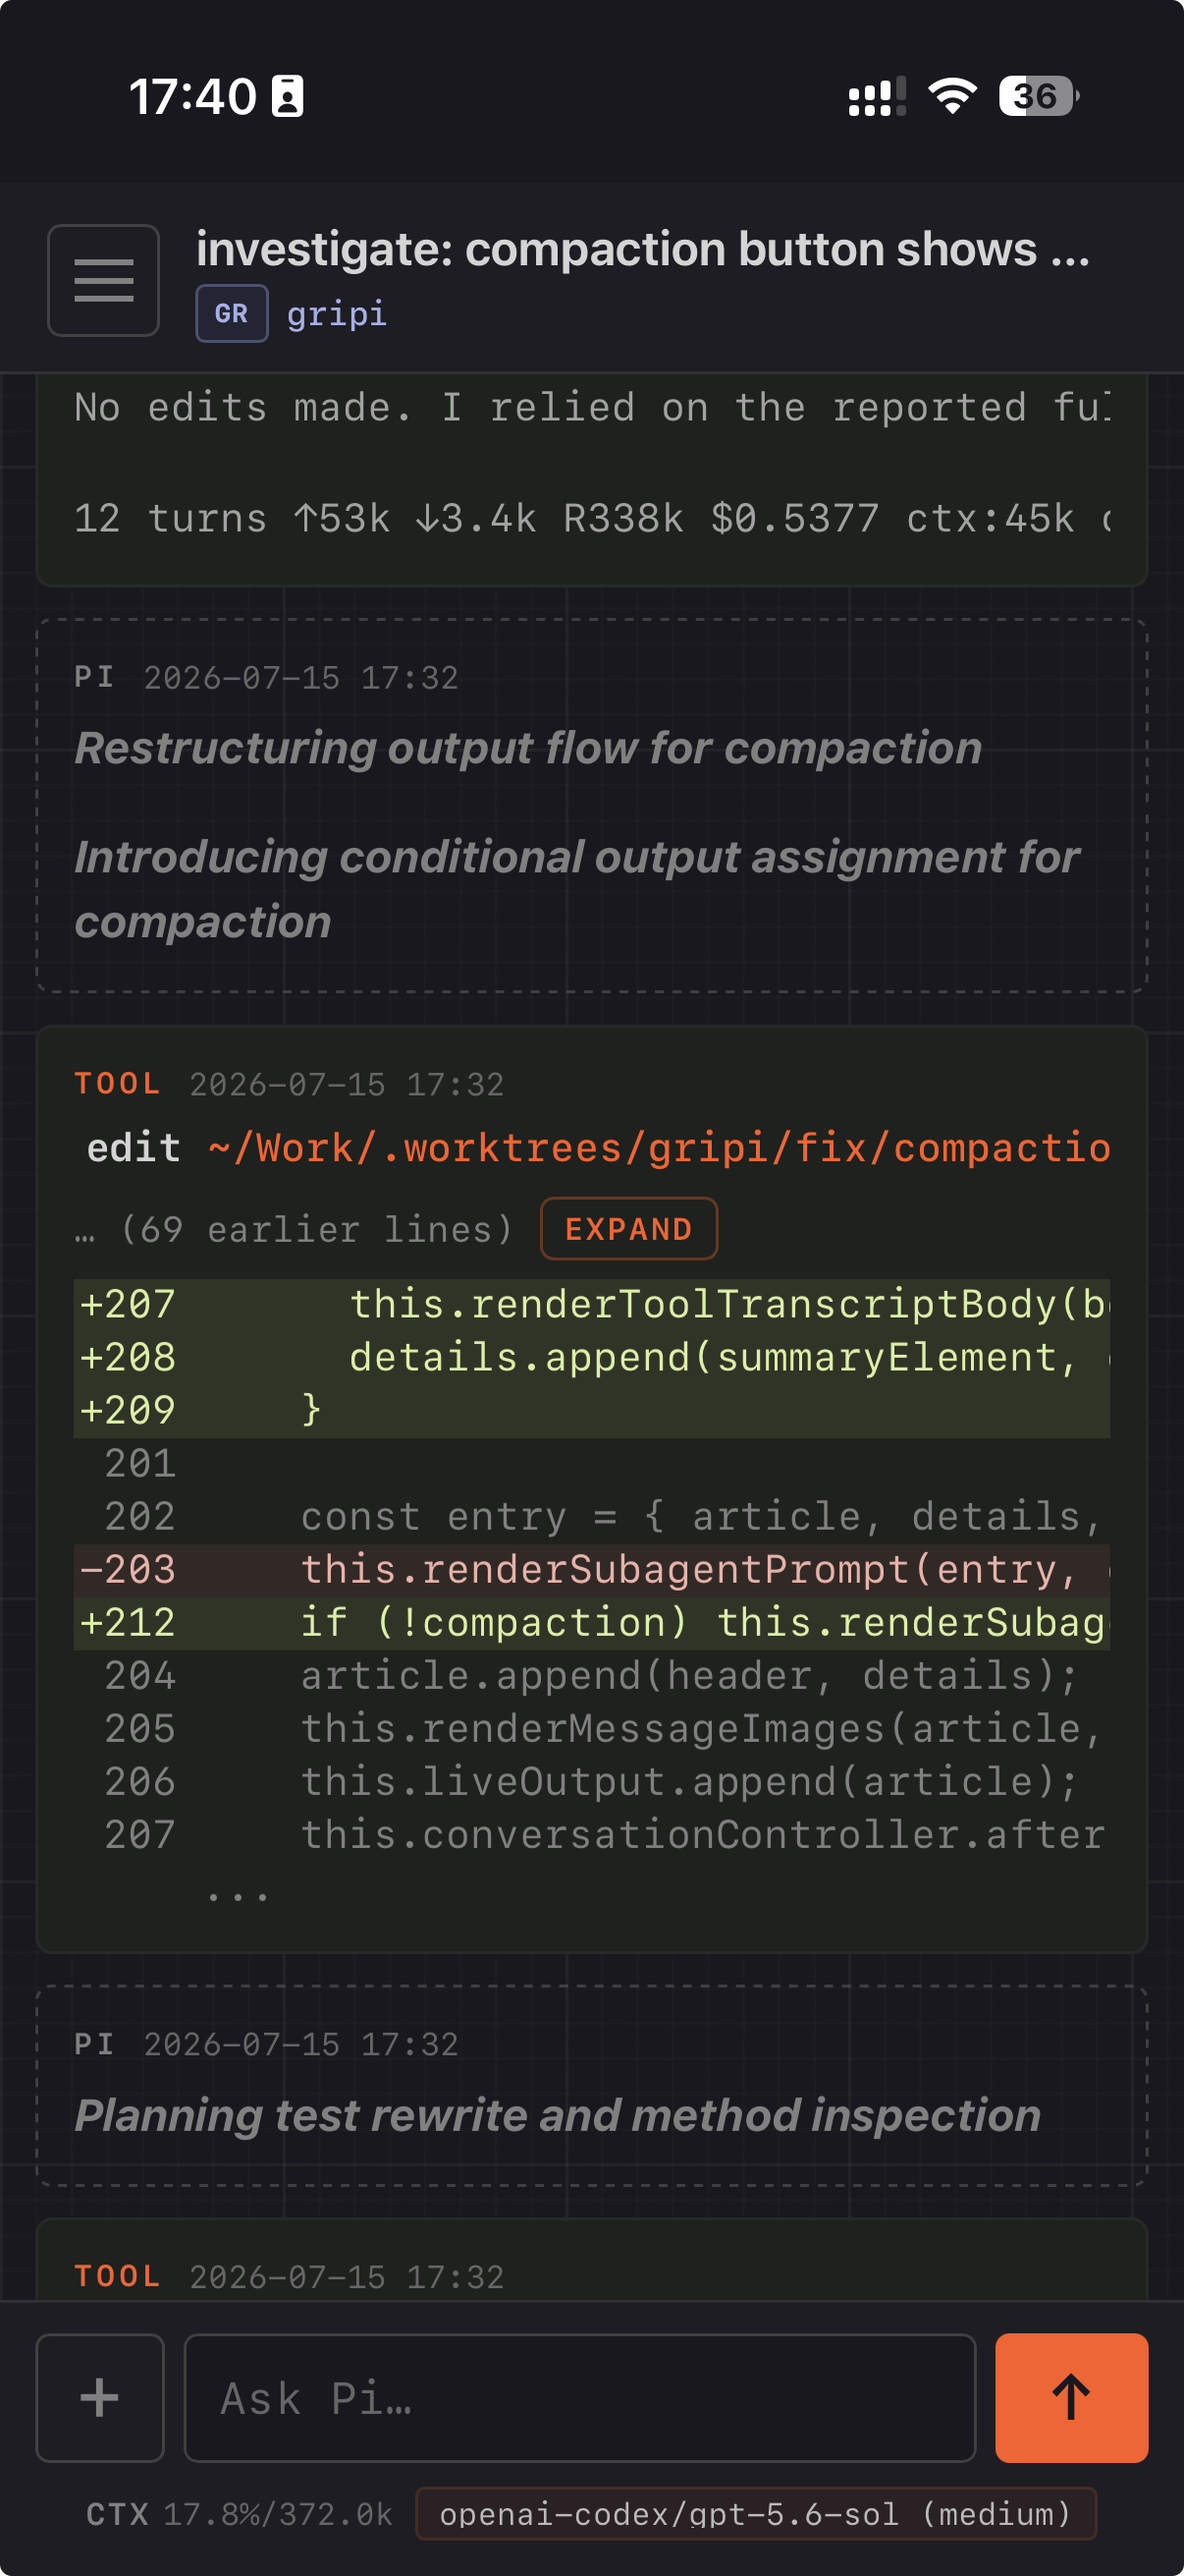
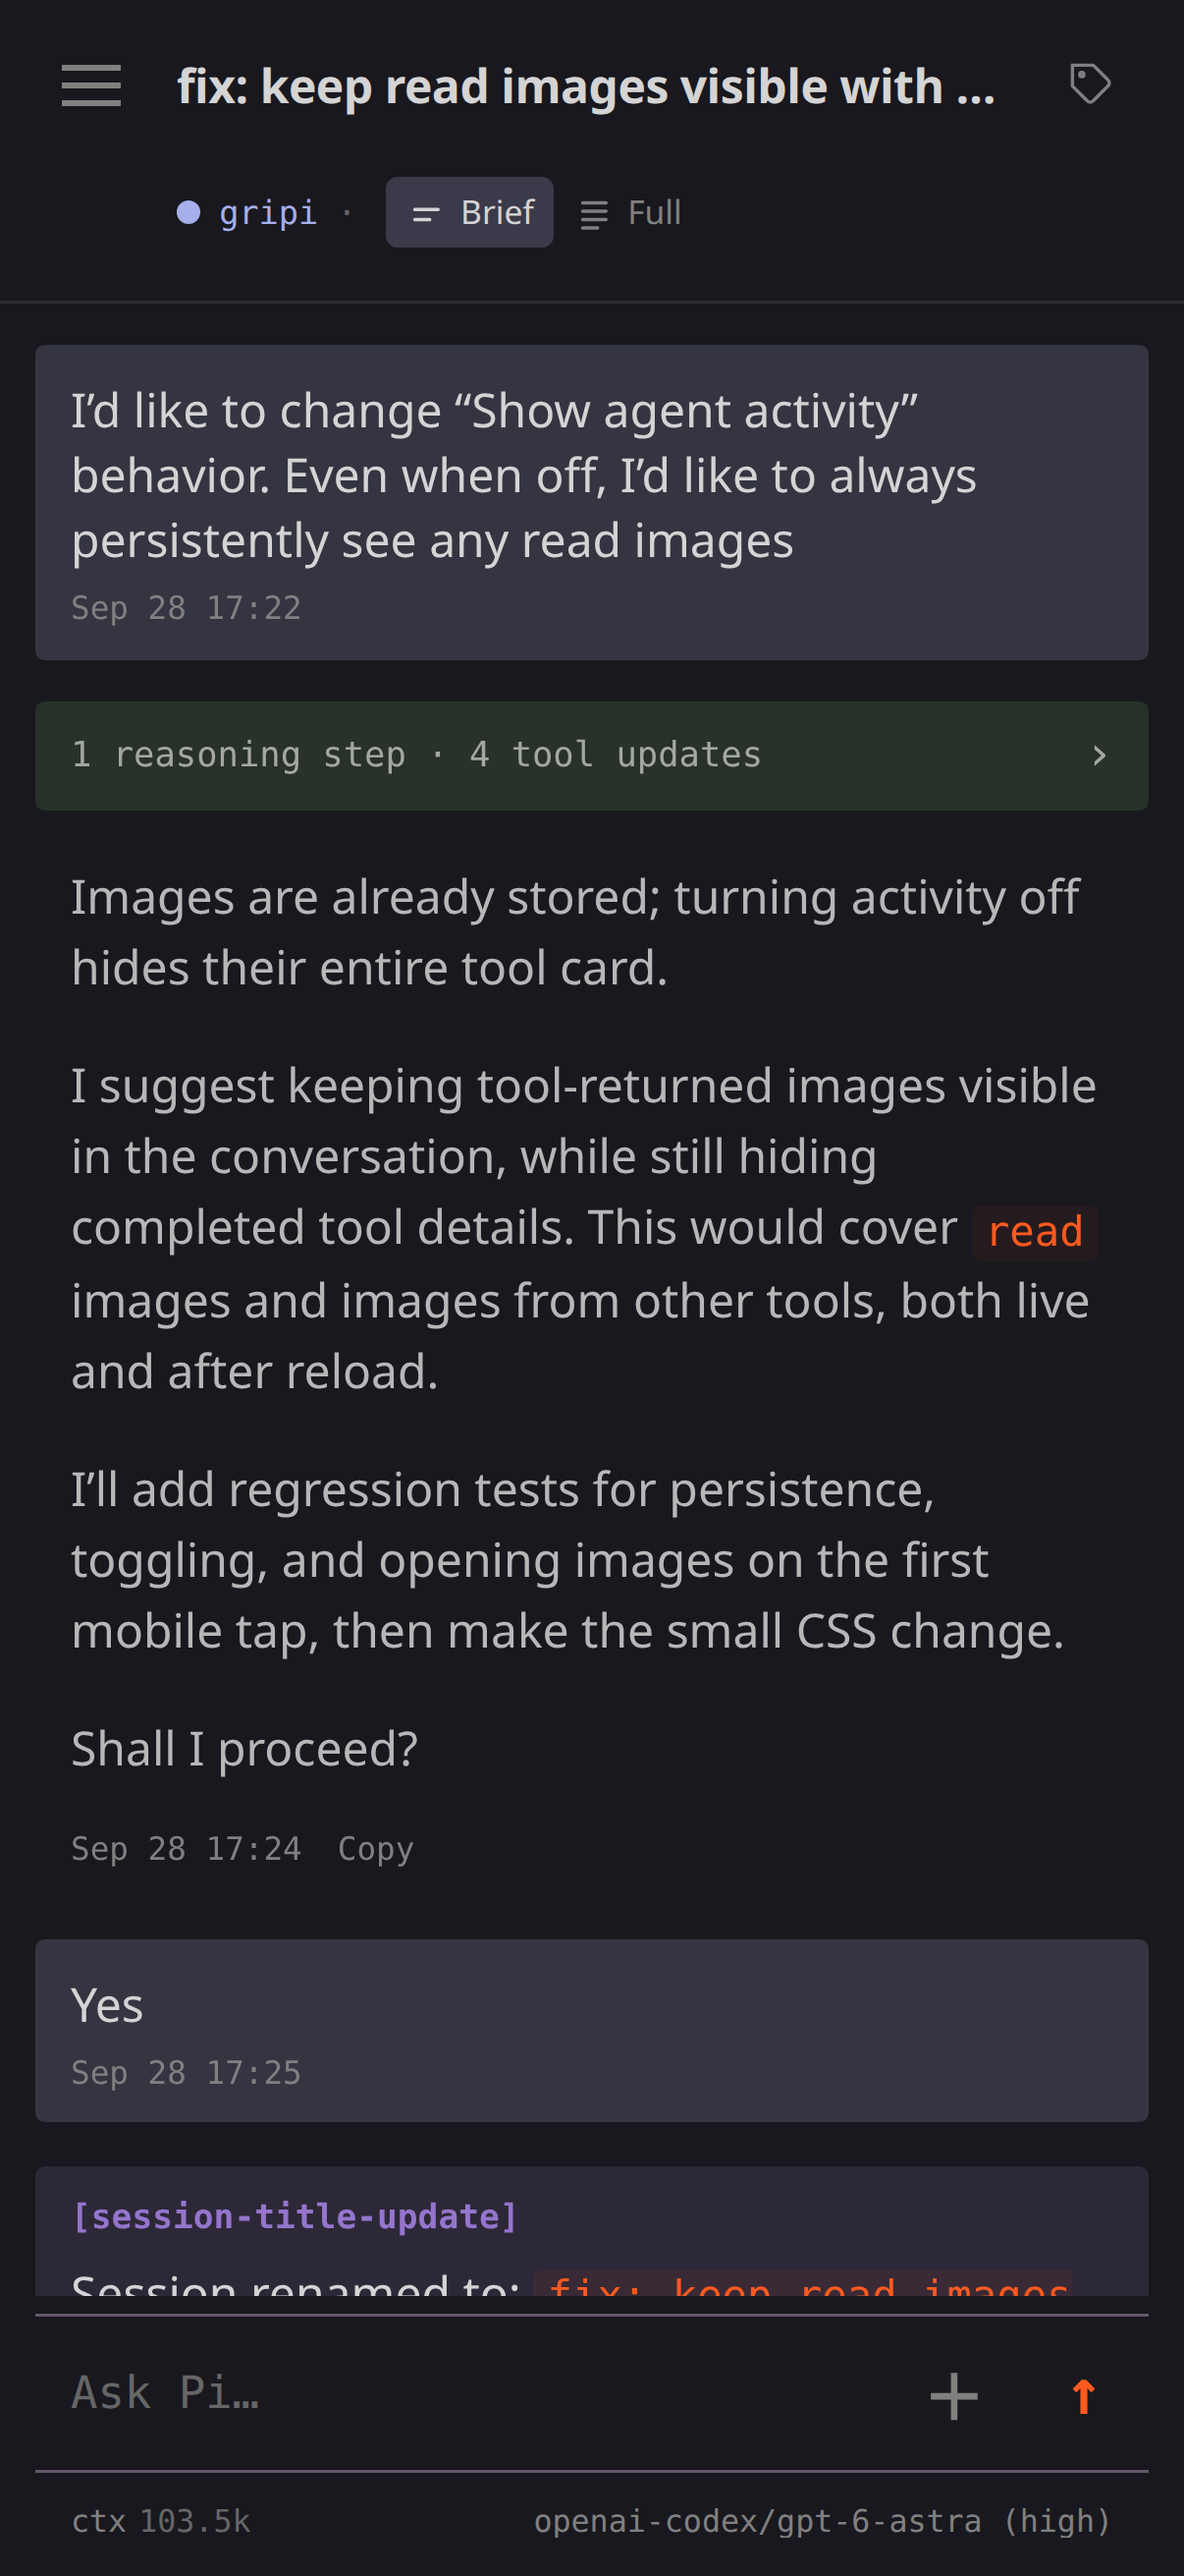
Refresh README screenshots for the Pi CLI look
The previous screenshots showed the boxed message layout that this branch replaces. Keep both images in the repository so they stay in sync with future UI changes.

diff --git a/README.md b/README.md
@@ -74,14 +74,14 @@ bash -o pipefail -c 'curl -fsSL https://raw.githubusercontent.com/melounvitek/gr
 
 The desktop app connects to a running gateway and can store and switch between multiple gateways.
 
-<img width="1468" height="930" alt="Screenshot 2026-07-15 at 19 23 37" src="https://github.com/user-attachments/assets/194b8d2a-5e1d-43c5-aae7-a8092e73b6f4" />
+<img width="1440" alt="Gripi on desktop, showing a Pi session with thinking, a failed command, an edit and a test run" src="docs/images/gripi-desktop-screenshot.png" />
 
 
 There is no mobile app, but on iPhone, adding the gateway to the Home Screen with Apple's [Open as Web App](https://support.apple.com/guide/iphone/open-as-web-app-iphea86e5236/ios) flow works nicely. On iOS/iPadOS 16.4 or newer, the installed web app can enable Web Push notifications for completed replies; they continue working while Gripi is closed and require no App Store installation or Apple developer account. The gateway must be reached over HTTPS and have outbound internet access to the browser's push service.
 
 <img width="804" height="362" alt="image" src="https://github.com/user-attachments/assets/37ab55d7-7b34-4cce-932e-566a6d415041" />
 
-<img width="360" alt="Gripi running as an iPhone web app" src="docs/images/gripi-mobile-screenshot.png" />
+<img width="360" alt="Gripi on a phone, showing a conversation in the Brief view" src="docs/images/gripi-mobile-screenshot.png" />
 
 ## Usage modes
 
